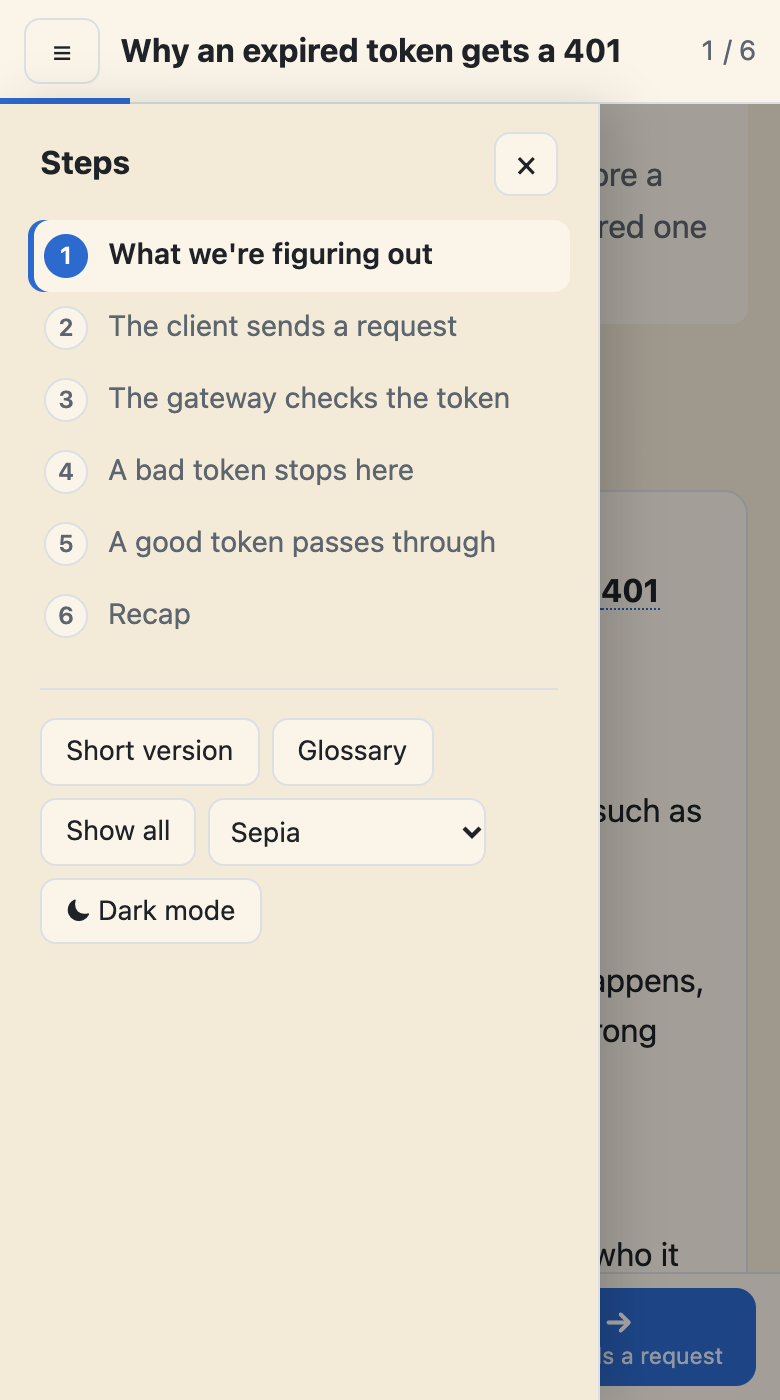
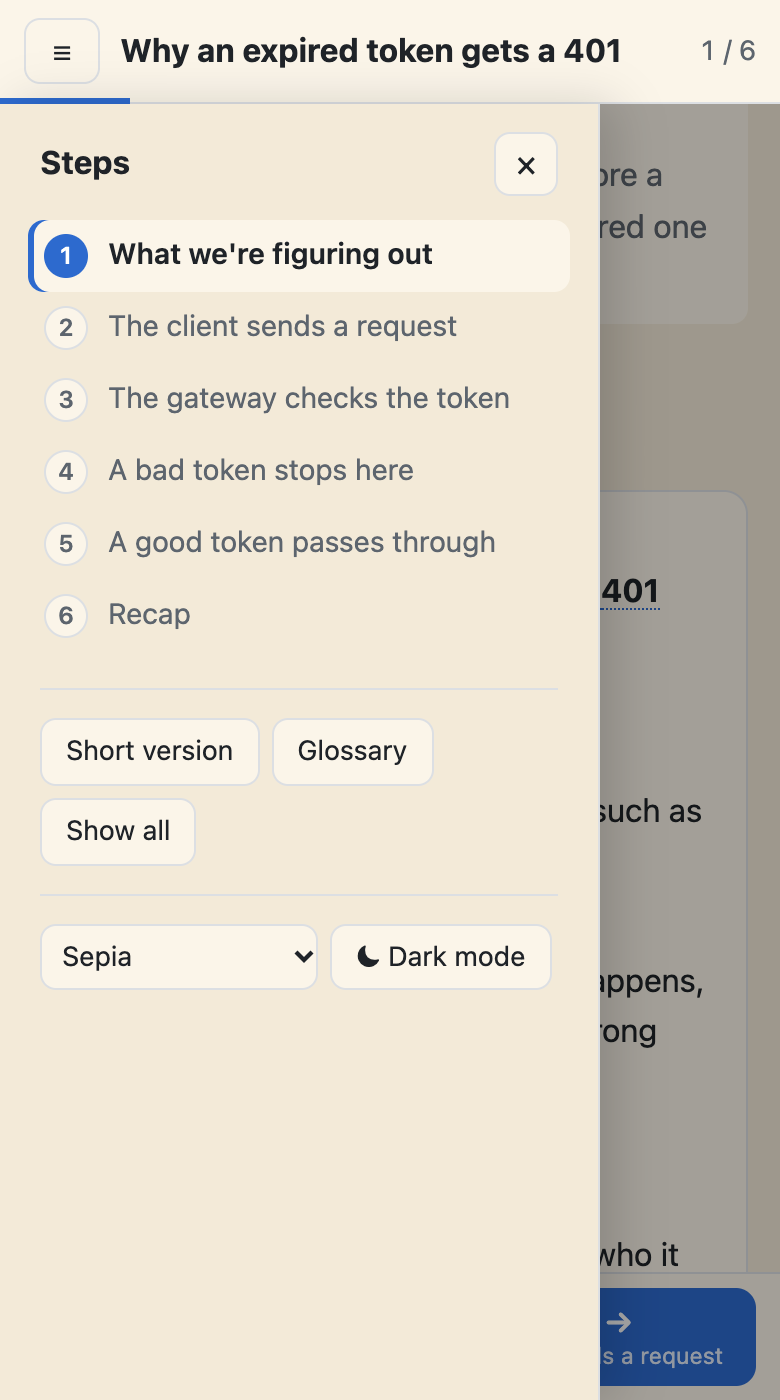
feat(explain-interactive): palette and light/dark in their own phone-menu section
In the phone menu the palette picker and the light/dark button move to a
section of their own, under the other tools and separated from them by a
horizontal line.

diff --git a/plugins/explain-interactive/skills/explain-interactive/engine/engine.css b/plugins/explain-interactive/skills/explain-interactive/engine/engine.css
@@ -340,6 +340,7 @@ body.gloss #gloss { transform: none; visibility: visible; transition: transform 
   body.menu .scrim { display: block; }
   .side > .side-head { display: flex; padding: 0 6px; }
   .side > .side-tools { display: flex; flex-wrap: wrap; gap: 6px; margin: 18px 6px 0; padding-top: 14px; border-top: 1px solid var(--line); }
+  .side > .side-look { margin-top: 14px; }   /* palette and light/dark: their own section under the other tools */
   .stage { padding: 20px 16px; }
   .foot { padding: 0 12px; }
   .foot .upnext, .foot .keys { display: none; }

diff --git a/plugins/explain-interactive/skills/explain-interactive/engine/page.html b/plugins/explain-interactive/skills/explain-interactive/engine/page.html
@@ -33,6 +33,8 @@
       <button class="tbtn" data-act="depth" aria-pressed="false" hidden>Short version</button>
       <button class="tbtn" data-act="gloss" aria-pressed="false">Glossary</button>
       <button class="tbtn" data-act="all" aria-pressed="false">Show all</button>
+    </div>
+    <div class="side-tools side-look">
       <select class="tbtn palette" aria-label="Colour palette">{{PALETTE_OPTIONS}}</select>
       <button class="tbtn" data-act="theme" data-long></button>
     </div>
